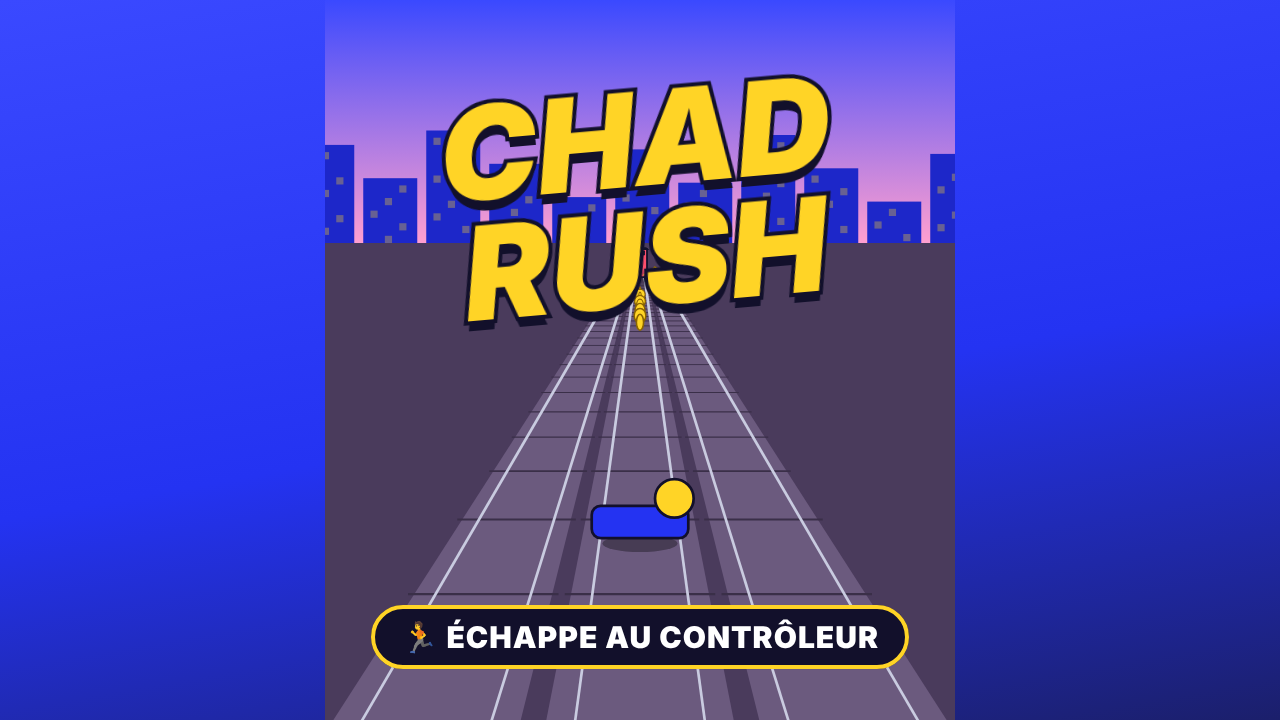
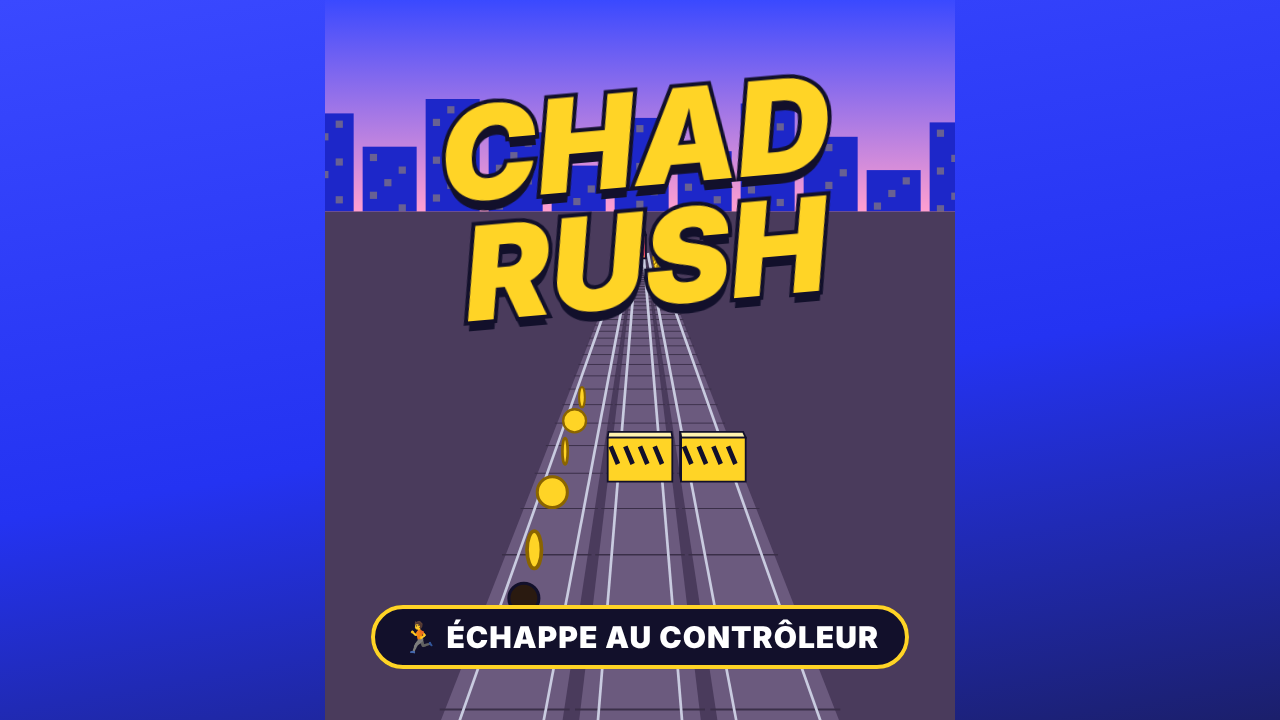
A

diff --git a/index.html b/index.html
@@ -153,9 +153,9 @@ const CG=(()=>{
 /* ===== Chad Rush ===== */
 const cv=$('cv'),ctx=cv.getContext('2d');
 let W=450,H=800,sc=1,dpr=1,F=520;
-function resize(){dpr=Math.min(2,devicePixelRatio||1);sc=innerHeight/800;W=Math.max(420,Math.min(innerWidth/sc,700));cv.width=W*sc*dpr|0;cv.height=H*sc*dpr|0;cv.style.width=W*sc+'px';cv.style.height=H*sc+'px';F=Math.min(W*1.15,620)}
+function resize(){dpr=Math.min(2,devicePixelRatio||1);sc=innerHeight/800;W=Math.max(420,Math.min(innerWidth/sc,700));cv.width=W*sc*dpr|0;cv.height=H*sc*dpr|0;cv.style.width=W*sc+'px';cv.style.height=H*sc+'px';F=Math.min(W*1.25,640)}
 addEventListener('resize',resize);resize();
-const LANE=1.25,PZ=5.2,HOR=270,CAMH=2.8,FAR=60;
+const LANE=1.25,PZ=6.2,HOR=235,CAMH=4.6,FAR=64;
 // projection : x monde (m), y hauteur (m), z distance devant la caméra (m)
 const pr=(x,y,z)=>({x:W/2+x*F/z,y:HOR+(CAMH-y)*F/z,s:F/z});
 const P={lane:0,x:0,y:0,vy:0,slide:0,run:0,dead:false,stumble:0};
@@ -205,7 +205,7 @@ function die(){P.dead=true;shake=14;CG.sfx.hit();CG.flash();const q=pr(P.x,1,PZ)
 /* dessin */
 function quad(a,b,c,d,fill,stroke){ctx.beginPath();ctx.moveTo(a.x,a.y);ctx.lineTo(b.x,b.y);ctx.lineTo(c.x,c.y);ctx.lineTo(d.x,d.y);ctx.closePath();ctx.fillStyle=fill;ctx.fill();if(stroke){ctx.strokeStyle=stroke;ctx.lineWidth=2;ctx.stroke()}}
 function box(x,w,y0,y1,z0,z1,front,top,side){
-  const zn=Math.max(1.2,z0);if(z1<=zn)return{A:pr(x,y1,zn),B:pr(x,y1,zn),C:pr(x,y0,zn),D:pr(x,y0,zn)};const A=pr(x-w/2,y1,zn),B=pr(x+w/2,y1,zn),C=pr(x+w/2,y0,zn),D=pr(x-w/2,y0,zn);
+  const zn=Math.max(PZ-.7,z0);if(z1<=zn)return{A:pr(x,y1,zn),B:pr(x,y1,zn),C:pr(x,y0,zn),D:pr(x,y0,zn)};const A=pr(x-w/2,y1,zn),B=pr(x+w/2,y1,zn),C=pr(x+w/2,y0,zn),D=pr(x-w/2,y0,zn);
   const A2=pr(x-w/2,y1,z1),B2=pr(x+w/2,y1,z1);
   quad(A,B,B2,A2,top,'#12102b');
   if(x>0.1){const C2=pr(x-w/2,y0,z1);quad(A,A2,C2,D,side,'#12102b')}else if(x<-.1){const C2=pr(x+w/2,y0,z1);quad(B,B2,C2,C,side,'#12102b')}
@@ -226,33 +226,50 @@ function draw(){
   const items=[...obs.map(o=>({z:o.z,o})),...coins.map(c=>({z:c.z,c})),{z:PZ,p:1}].sort((a,b)=>b.z-a.z);
   for(const it of items){
     if(it.o){const o=it.o,x=o.lane*LANE;if(o.z>FAR)continue;
-      if(o.k==='train'){const b=box(x,1.15,0,2.3,o.z,o.z+o.len,'#ff4f6d','#ffd0dc','#c8364f');
-        if(o.z>1.2){const s=b.B.x-b.A.x;ctx.fillStyle='#12102b';ctx.fillRect(b.A.x+s*.15,b.A.y+s*.12,s*.7,s*.32);ctx.fillStyle='#ffd426';ctx.beginPath();ctx.arc(b.A.x+s*.2,b.D.y-s*.18,s*.07,0,7);ctx.arc(b.B.x-s*.2,b.D.y-s*.18,s*.07,0,7);ctx.fill()}}
-      else if(o.k==='low'){box(x,1.1,0,.75,o.z,o.z+.25,'#ffd426','#fff3b0','#d9b000');const p1=pr(x-.5,.45,o.z),p2=pr(x+.5,.45,o.z);ctx.strokeStyle='#12102b';ctx.lineWidth=Math.max(2,p1.s*.08);ctx.beginPath();for(let i=0;i<4;i++){const a=p1.x+(p2.x-p1.x)*(i/4),b=p1.x+(p2.x-p1.x)*((i+.5)/4);ctx.moveTo(a,p1.y-p1.s*.15);ctx.lineTo(b,p1.y+p1.s*.15)}ctx.stroke()}
-      else{box(x-.5,.12,0,2.1,o.z,o.z+.12,'#9aa0b8','#c9cbe0','#6d7290');box(x+.5,.12,0,2.1,o.z,o.z+.12,'#9aa0b8','#c9cbe0','#6d7290');const b=box(x,1.15,1.15,2.05,o.z,o.z+.15,'#2ee6a6','#b8ffe6','#1fbf88');if(o.z>1.2){const s=b.B.x-b.A.x;ctx.fillStyle='#12102b';ctx.font=`900 ${Math.max(8,s*.22)}px system-ui`;ctx.textAlign='center';ctx.fillText('GLISSE',(b.A.x+b.B.x)/2,(b.A.y+b.D.y)/2+s*.08)}}}
-    else if(it.c){const c=it.c;if(c.z>FAR*.8)continue;const q=pr(c.lane*LANE,c.y,c.z),r=Math.max(2,q.s*.22);const sq=Math.abs(Math.cos(t/8+c.z));ctx.fillStyle='#ffd426';ctx.strokeStyle='#8a6400';ctx.lineWidth=Math.max(1,r*.2);ctx.beginPath();ctx.ellipse(q.x,q.y,r*Math.max(.2,sq),r,0,0,7);ctx.fill();ctx.stroke()}
+      if(o.k==='train'){if(o.z+o.len<PZ-.7)continue;const b=box(x,1.15,0,2.3,o.z,o.z+o.len,'#ff4f6d','#ffd0dc','#c8364f');
+        if(o.z>PZ-.7){const s=b.B.x-b.A.x;ctx.fillStyle='#12102b';ctx.fillRect(b.A.x+s*.15,b.A.y+s*.12,s*.7,s*.32);ctx.fillStyle='#ffd426';ctx.beginPath();ctx.arc(b.A.x+s*.2,b.D.y-s*.18,s*.07,0,7);ctx.arc(b.B.x-s*.2,b.D.y-s*.18,s*.07,0,7);ctx.fill()}}
+      else if(o.z<PZ-.7)continue;else if(o.k==='low'){box(x,1.1,0,.75,o.z,o.z+.25,'#ffd426','#fff3b0','#d9b000');const p1=pr(x-.5,.45,o.z),p2=pr(x+.5,.45,o.z);ctx.strokeStyle='#12102b';ctx.lineWidth=Math.max(2,p1.s*.08);ctx.beginPath();for(let i=0;i<4;i++){const a=p1.x+(p2.x-p1.x)*(i/4),b=p1.x+(p2.x-p1.x)*((i+.5)/4);ctx.moveTo(a,p1.y-p1.s*.15);ctx.lineTo(b,p1.y+p1.s*.15)}ctx.stroke()}
+      else{box(x-.5,.12,0,2.1,o.z,o.z+.12,'#9aa0b8','#c9cbe0','#6d7290');box(x+.5,.12,0,2.1,o.z,o.z+.12,'#9aa0b8','#c9cbe0','#6d7290');const b=box(x,1.15,1.15,2.05,o.z,o.z+.15,'#2ee6a6','#b8ffe6','#1fbf88');if(o.z>PZ-.7){const s=b.B.x-b.A.x;ctx.fillStyle='#12102b';ctx.font=`900 ${Math.max(8,s*.22)}px system-ui`;ctx.textAlign='center';ctx.fillText('GLISSE',(b.A.x+b.B.x)/2,(b.A.y+b.D.y)/2+s*.08)}}}
+    else if(it.c){const c=it.c;if(c.z>FAR*.8)continue;if(c.z<PZ-.5)continue;const q=pr(c.lane*LANE,c.y,c.z),r=Math.max(2,q.s*.22);const sq=Math.abs(Math.cos(t/8+c.z));ctx.fillStyle='#ffd426';ctx.strokeStyle='#8a6400';ctx.lineWidth=Math.max(1,r*.2);ctx.beginPath();ctx.ellipse(q.x,q.y,r*Math.max(.2,sq),r,0,0,7);ctx.fill();ctx.stroke()}
     else drawChad()}
   for(const p of parts){ctx.globalAlpha=p.l/40+.2;ctx.fillStyle=p.c;ctx.fillRect(p.x-2,p.y-2,5,5)}ctx.globalAlpha=1;
   ctx.restore();
 }
 function drawChad(){
-  const q=pr(P.x,P.y,PZ),s=q.s;const sl=P.slide>0&&P.y<.1;ctx.save();ctx.translate(q.x+(P.stumble?Math.sin(t)*3:0),q.y);
-  if(P.dead)ctx.rotate(-.6);
-  // ombre
-  const sh=pr(P.x,0,PZ);ctx.fillStyle='#0005';ctx.beginPath();ctx.ellipse(0,sh.y-q.y,s*.35,s*.08,0,0,7);ctx.fill();
-  ctx.lineWidth=3;ctx.strokeStyle='#12102b';
-  if(sl){ctx.fillStyle='#2433f2';ctx.beginPath();ctx.roundRect(-s*.45,-s*.35,s*.9,s*.3,10);ctx.fill();ctx.stroke();ctx.fillStyle='#ffd426';ctx.beginPath();ctx.arc(s*.32,-s*.42,s*.18,0,7);ctx.fill();ctx.stroke();ctx.restore();return}
-  const k=Math.sin(P.run*2.2),air=P.y>.05;
-  // jambes
-  ctx.fillStyle='#12102b';ctx.save();ctx.translate(-s*.1,-s*.45);ctx.rotate(air?.5:k*.6);ctx.fillRect(-s*.06,0,s*.12,s*.45);ctx.restore();ctx.save();ctx.translate(s*.1,-s*.45);ctx.rotate(air?-.3:-k*.6);ctx.fillRect(-s*.06,0,s*.12,s*.45);ctx.restore();
-  // corps (sweat)
-  ctx.fillStyle='#2433f2';ctx.beginPath();ctx.roundRect(-s*.24,-s*1.05,s*.48,s*.62,s*.12);ctx.fill();ctx.stroke();
+  const q=pr(P.x,P.y,PZ),s=q.s*.95;const sl=P.slide>0&&P.y<.1;
+  const sh=pr(P.x,0,PZ);ctx.fillStyle='#0006';ctx.beginPath();ctx.ellipse(sh.x,sh.y,s*.36,s*.09,0,0,7);ctx.fill();
+  ctx.save();ctx.translate(q.x+(P.stumble?Math.sin(t*1.3)*4:0),q.y);if(P.dead)ctx.rotate(-.7);
+  ctx.lineWidth=Math.max(2,s*.035);ctx.strokeStyle='#12102b';ctx.lineJoin='round';ctx.lineCap='round';
+  const R=(x,y,w,h,r,f)=>{ctx.beginPath();ctx.roundRect(x,y,w,h,r);ctx.fillStyle=f;ctx.fill();ctx.stroke()};
+  if(sl){ // glissade : allongé sur le dos, vu de derrière
+    R(-s*.42,-s*.34,s*.84,s*.26,s*.12,'#2433f2');
+    ctx.fillStyle='#ffd426';ctx.font=`900 ${s*.13}px system-ui`;ctx.textAlign='center';ctx.fillText('CG',0,-s*.16);
+    ctx.beginPath();ctx.arc(0,-s*.46,s*.17,0,7);ctx.fillStyle='#2a1a10';ctx.fill();ctx.stroke();
+    R(-s*.5,-s*.18,s*.18,s*.12,s*.05,'#fff');R(s*.32,-s*.18,s*.18,s*.12,s*.05,'#fff');
+    ctx.restore();return}
+  const k=Math.sin(P.run*2.2),air=P.y>.05,bob=air?0:Math.abs(k)*s*.04;ctx.translate(0,-bob);
+  // jambes + baskets
+  const leg=(side,ph)=>{ctx.save();ctx.translate(side*s*.11,-s*.5);const lift=air?(side<0?.35:.15):Math.max(0,ph)*.9;
+    R(-s*.07,0,s*.14,s*.3-lift*s*.18,s*.05,'#1b1f6b');
+    ctx.translate(0,s*.3-lift*s*.18);R(-s*.09,-s*.02,s*.18,s*.12+lift*s*.05,s*.04,'#fff');ctx.fillStyle='#ff4f6d';ctx.fillRect(-s*.09,s*.04,s*.18,s*.025);
+    if(lift>.3){ctx.fillStyle='#ffd426';ctx.fillRect(-s*.07,s*.08,s*.14,s*.03)} ctx.restore()};
+  leg(-1,k);leg(1,-k);
+  // sweat à capuche
+  ctx.beginPath();ctx.moveTo(-s*.27,-s*1.02);ctx.quadraticCurveTo(-s*.3,-s*.62,-s*.24,-s*.46);ctx.lineTo(s*.24,-s*.46);ctx.quadraticCurveTo(s*.3,-s*.62,s*.27,-s*1.02);ctx.quadraticCurveTo(0,-s*1.12,-s*.27,-s*1.02);ctx.closePath();ctx.fillStyle='#2433f2';ctx.fill();ctx.stroke();
+  ctx.fillStyle='#1a26c4';ctx.fillRect(-s*.24,-s*.52,s*.48,s*.06);
   ctx.fillStyle='#ffd426';ctx.font=`900 ${s*.2}px system-ui`;ctx.textAlign='center';ctx.fillText('CG',0,-s*.68);
-  // bras
-  ctx.fillStyle='#ffd426';ctx.save();ctx.translate(-s*.26,-s*.95);ctx.rotate(-k*.7);ctx.fillRect(-s*.06,0,s*.12,s*.38);ctx.restore();ctx.save();ctx.translate(s*.26,-s*.95);ctx.rotate(k*.7);ctx.fillRect(-s*.06,0,s*.12,s*.38);ctx.restore();
-  // tête (vue de dos : casquette)
-  ctx.fillStyle='#ffd426';ctx.beginPath();ctx.arc(0,-s*1.22,s*.2,0,7);ctx.fill();ctx.stroke();
-  ctx.fillStyle='#ff4f6d';ctx.beginPath();ctx.arc(0,-s*1.27,s*.2,Math.PI,0);ctx.fill();ctx.stroke();ctx.fillRect(-s*.08,-s*1.3,s*.16,s*.06);
+  // capuche posée sur les épaules
+  ctx.beginPath();ctx.ellipse(0,-s*1.0,s*.17,s*.08,0,0,7);ctx.fillStyle='#1a26c4';ctx.fill();ctx.stroke();
+  // bras qui balancent
+  const arm=(side,ph)=>{ctx.save();ctx.translate(side*s*.27,-s*.98);ctx.rotate(side*(.18)+(air?side*-.9:ph*.7));R(-s*.065,0,s*.13,s*.36,s*.06,'#2433f2');ctx.beginPath();ctx.arc(0,s*.38,s*.065,0,7);ctx.fillStyle='#f3c892';ctx.fill();ctx.stroke();ctx.restore()};
+  arm(-1,-k);arm(1,k);
+  // tête de dos : nuque, oreilles, cheveux plaqués + casque audio
+  ctx.fillStyle='#f3c892';ctx.fillRect(-s*.07,-s*1.14,s*.14,s*.08);
+  ctx.beginPath();ctx.ellipse(-s*.17,-s*1.27,s*.04,s*.065,0,0,7);ctx.ellipse(s*.17,-s*1.27,s*.04,s*.065,0,0,7);ctx.fill();ctx.stroke();
+  ctx.beginPath();ctx.ellipse(0,-s*1.3,s*.17,s*.19,0,0,7);ctx.fillStyle='#2a1a10';ctx.fill();ctx.stroke();
+  ctx.strokeStyle='#ffffff40';ctx.lineWidth=Math.max(1,s*.015);for(const dx of [-.07,0,.07]){ctx.beginPath();ctx.moveTo(dx*s,-s*1.45);ctx.quadraticCurveTo(dx*s*1.3,-s*1.3,dx*s*1.1,-s*1.15);ctx.stroke()}
+  ctx.strokeStyle='#12102b';ctx.lineWidth=Math.max(2,s*.045);ctx.beginPath();ctx.arc(0,-s*1.3,s*.2,Math.PI*1.05,Math.PI*1.95);ctx.stroke();
+  ctx.lineWidth=Math.max(2,s*.035);R(-s*.25,-s*1.33,s*.08,s*.14,s*.03,'#ff4f6d');R(s*.17,-s*1.33,s*.08,s*.14,s*.03,'#ff4f6d');
   ctx.restore();
 }
 let last=performance.now(),acc=0;function frame(now){acc+=Math.min(100,now-last);last=now;while(acc>=1000/60){step();acc-=1000/60}draw();requestAnimationFrame(frame)}
